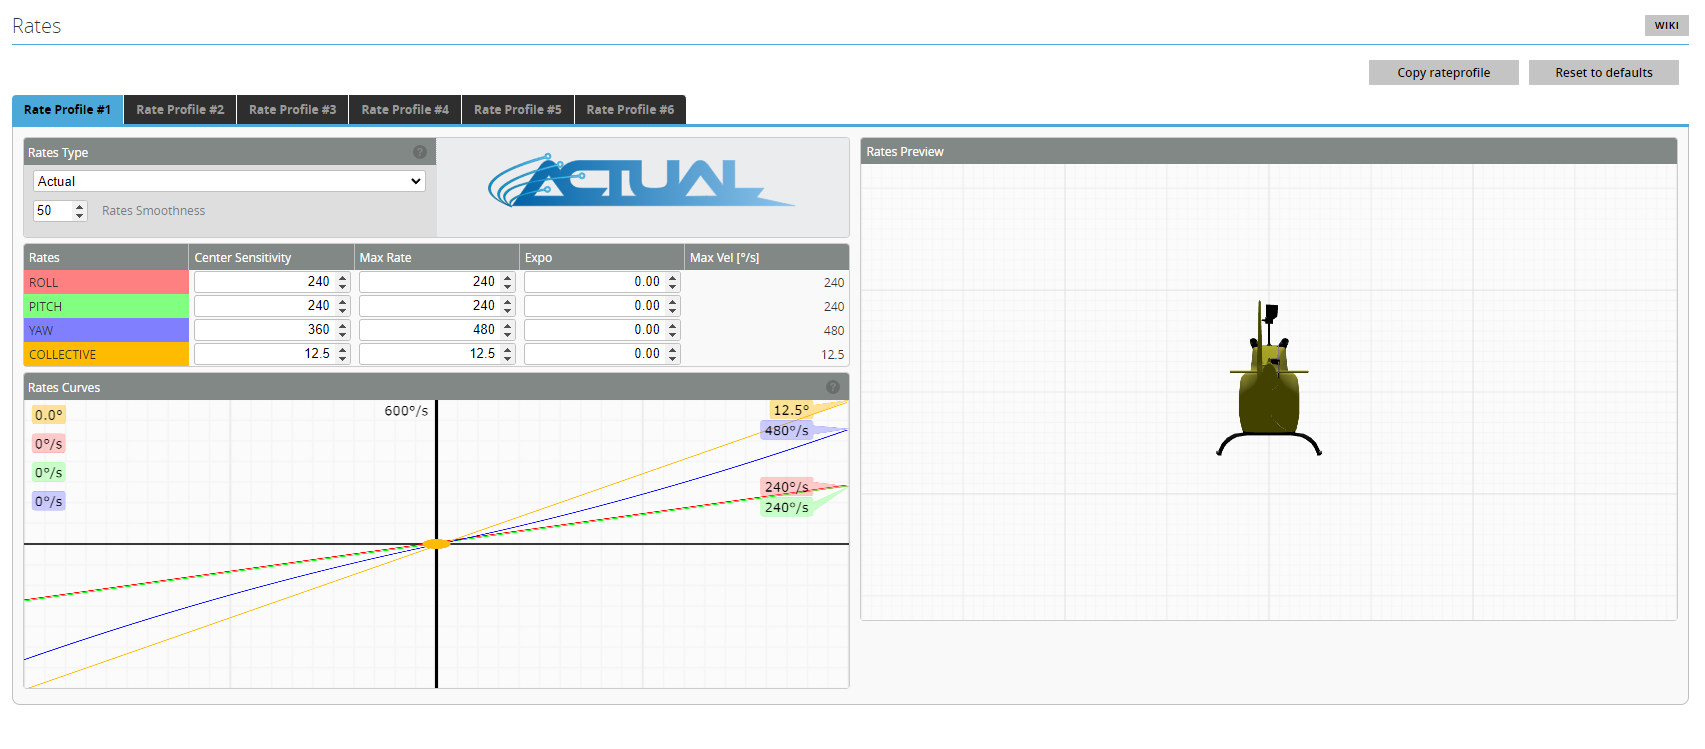
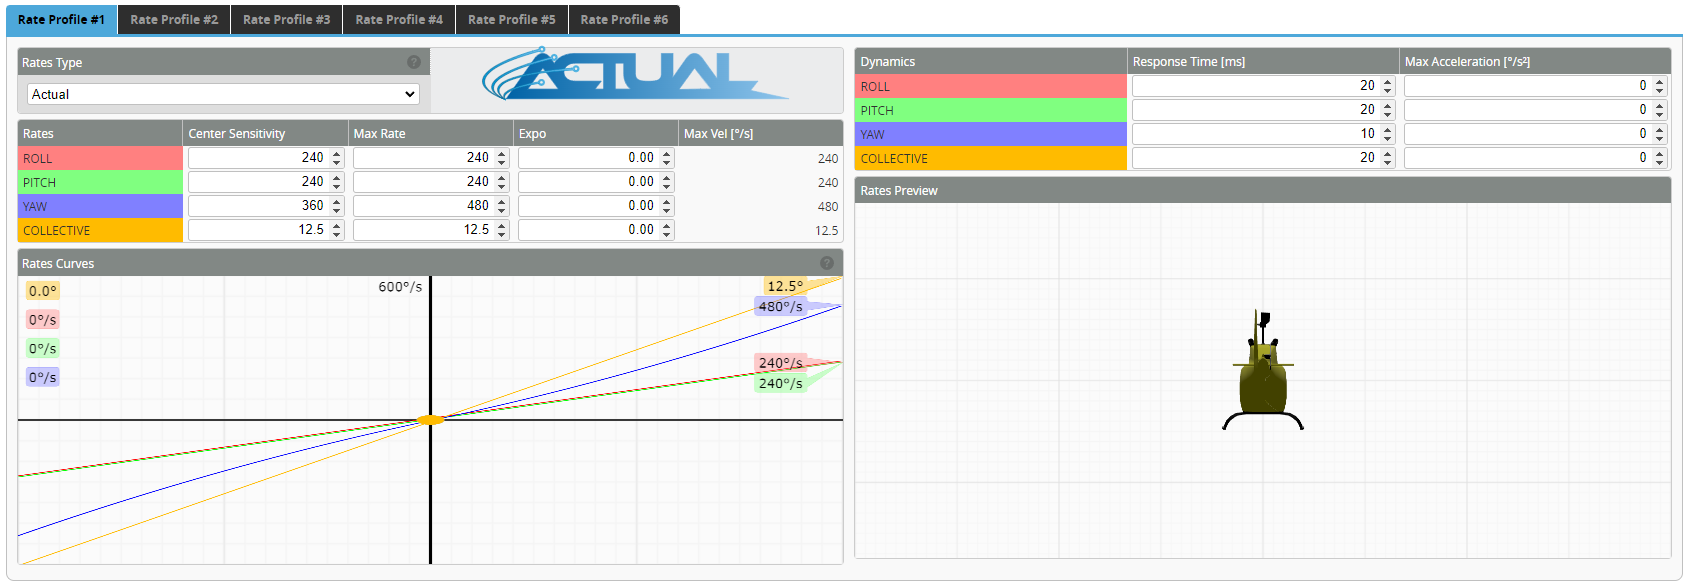
modified:   docs/Tutorial-Setup/Adjustments.md 	modified:   docs/Tutorial-Setup/Beepers.md 	modified:   docs/Tutorial-Setup/Blackbox.md 	new file:   docs/Tutorial-Setup/CLI.md 	modified:   docs/Tutorial-Setup/Configuration.md 	modified:   docs/Tutorial-Setup/Failsafe.md 	modified:   docs/Tutorial-Se

diff --git a/docusaurus.config.js b/docusaurus.config.js
@@ -145,7 +145,7 @@ const config = {
               },
               {
                 label: 'Setup',
-                to: '/docs/Tutorial-Setup/Configuration',
+                to: '/docs/Tutorial-Setup/Status',
               },
               {
                 label: 'Manufacturers',

diff --git a/docs/Tutorial-Setup/Status.md b/docs/Tutorial-Setup/Status.md
@@ -1,0 +1,65 @@
+---
+sidebar_position: 40
+---
+# Status
+
+A place for basic flight controller information. The status tab is the first tab you see when you connect to your flight controller. You can check the gyroscope live preview, view the arming prevention flags and other FC information.
+
+## Info
+
+Shows some basic data from the flight controller and model. This includes:
+
+* Craft Name
+* Firmware
+* Board
+
+![Status Tab](./img/status-info.png)
+
+## Arming
+
+![Status Tab](./img/status-arming.png)
+
+* **Enable Arming:** Use thr switch to enable arming while the configurator is connected.
+
+:::caution
+With the arming enabled, the motor can spoolup when the throttle is released.
+
+Remove blades for safety.
+:::
+
+* **Arming Disable Flags:** Shows all of the "errors" that prevent the flight controller from arming. This is useful to check if you're having issues arming.
+
+## Battery
+
+![Status Tab](./img/status-battery.png)
+
+* **Voltage** - Shows the current battery voltage if the settings for it are set correctly.
+* **Current** - Shows the current drawn from the battery if the settings for it are set correctly.
+* **Capacity** - Shows the consumed capacity of the battery in mAh.
+* **Charge Level** - Shows remaining battery capacity in percent.
+
+
+## Live Gyro Preview
+
+A live preview of the gyroscope data. This is useful to check if the gyroscope is aligned correctly, and if it isn't getting/giving noisy data.
+
+![Status Tab](./img/status-live-preview.png)
+
+* **Reset Z axis** - This button resets the heli heading to 0 degrees.
+
+:::info
+You can set the gyroscope alignment in the `Configuration` tab.
+:::
+
+## Instruments
+
+A graphic replica of real aircraft instruments.
+
+![Status Tab](./img/status-instruments.png)
+
+## Receiver
+
+The receiver output preview shows the current state of the receiver channels, both in channel value and graph forms, and how those affect the heli movement.
+
+![Status Tab](./img/status-receiver.png)
+

diff --git a/docs/Tutorial-Setup/Receiver.md b/docs/Tutorial-Setup/Receiver.md
@@ -1,5 +1,5 @@
 ---
-sidebar_position: 50
+sidebar_position: 70
 ---
 
 One of the first things you should do is to connect a receiver to the FC. Your FC has several UARTs, and each UART has a TX and an RX. A receiver needs to be connected to an RX and/or TX pad, depending on the type of receiver.
@@ -66,12 +66,13 @@ For **CRSF/ELRS** always set *ARM* switch to *CH5/AUX1* on the radio, also set *
 
 ![Receiver Tab](./img/receiver-settings.png)
 
-* Adjust **Stick Center** as required by your radio to achieve 0% when the _ROLL, PITCH, YAW_ sticks are centered. 
-* Adjust **Stick Maximum Travel** achieve 100% at the sticks limits.
-* Adjust **Throttle Channel value for 0% throttle** to achieve 0% on the channel bar.
-* Adjust **Throttle Channel value for 100% throttle** to achieve 100% on the channel bar.
+* **Stick Center** - adjust as required by your radio to achieve 0% when the _ROLL, PITCH, YAW_ sticks are centered. 
+* **Stick Maximum Travel** - adjust achieve 100% at the sticks limits.
+* **Throttle Channel value for arming** - channel value under which arming is allowed.
+* **Throttle Channel value for 0% throttle** - adjust to achieve 0% on the channel bar.
+* **Throttle Channel value for 100% throttle** - adjust to achieve 100% on the channel bar.
     * NOTE! Throttle hold must send a value than is lower than 0% level, for example you can set you radio to send 1000us at 0% throttle, and 975us at throttle hold.
-* Adjust **Cyclic Deadband** and **Yaw Deadband** to the smallest possible value that doesn't make your model drift in the *Rates Preview* window.
+* **Cyclic Deadband** and **Yaw Deadband** - adjust to the smallest possible value that doesn't make your model drift in the *Rates Preview* window.
 
 :::caution
 Calibrating Stability Mode

diff --git a/docs/Tutorial-Setup/Rates.md b/docs/Tutorial-Setup/Rates.md
@@ -65,9 +65,17 @@ Expo flattens the curve between center stick and full stick. To achieve a more l
 
 While Expo can be as high as 100, excessive Expo might cause decreased center stick sensitivity and make the heli’s response more unpredictable towards full stick (more jumpy).
 
-### Rates Smoothness
+## Dynamics
 
-During piroflips, one may feel that the cyclic has slight wobbles. Increasing `Rates Smoothness` would help with that given the PID loop is tuned well.
+![Rates](./img/rates-dynamics.png)
+
+* **Response Time** - corresponds the smoothness of the reaction to stick inputs, also called  time constant of the input filter.
+
+:::note
+High response times smooths out the input but too high could cause significant input delay.
+:::
+
+* **Max Acceleration** - is the input acceleration limiter. Zero represents off. Low value reduces the load on the machine and could be desired for scale flying, not useful for 3D normally.
 
 ## Copy Rate Profile
 

diff --git a/docs/Tutorial-Setup/Mixer.md b/docs/Tutorial-Setup/Mixer.md
@@ -1,5 +1,5 @@
 ---
-sidebar_position: 70
+sidebar_position: 120
 ---
 
 # Mixer
@@ -42,6 +42,10 @@ For helicopters with adjustable swash links this should remain at 0 and the link
 
 #### Cyclic and Collective calibration
 These settings are used to calibrate the mixer so that the blade angle matches the commanded angle for both the cyclic and collective. See the [calibration procedure](#calibrating-the-mixer) for details.
+
+#### Collective geometry correction
+
+Adjust until the collective positive and negative deflections are equal.
 
 #### Collective blade pitch limit
 

diff --git a/docs/Tutorial-Setup/Configuration.md b/docs/Tutorial-Setup/Configuration.md
@@ -1,5 +1,5 @@
 ---
-sidebar_position: 40
+sidebar_position: 60
 ---
 # Configuration
 
@@ -30,7 +30,7 @@ This section is used to enable or disable features.
 ![Configuration Tab](./img/config-features.png)
 
 :::tip
-Features such as the Serial Rx, GPS, ESC Telemetry must be selected in the [Serial ports](#serial-ports) section before selecting the Feature here. 
+Features such as the GPS must be selected in the [Serial ports](#serial-ports) section before selecting the Feature here. 
 :::
 
 ## Serial Ports

diff --git a/docs/Tutorial-Setup/Beepers.md b/docs/Tutorial-Setup/Beepers.md
@@ -1,10 +1,7 @@
 ---
-sidebar_position: 170
+sidebar_position: 190
 ---
 
 # Beepers
-Coming soon
-## Buzzer configuration
-Coming soon
-## ESC Beacon configuration
-Coming soon
+
+To Do

diff --git a/docs/Tutorial-Setup/Failsafe.md b/docs/Tutorial-Setup/Failsafe.md
@@ -1,9 +1,6 @@
 ---
-sidebar_position: 170
+sidebar_position: 80
 ---
 # Failsafe
 
-## Valid Pulse Range Settings
-Coming soon
-## Channel Fallback Settings
-Coming soon
+To Do

diff --git a/docs/Tutorial-Setup/Blackbox.md b/docs/Tutorial-Setup/Blackbox.md
@@ -1,5 +1,5 @@
 ---
-sidebar_position: 170
+sidebar_position: 220
 ---
 
 # Blackbox logging

diff --git a/docs/Tutorial-Setup/Rpm-Measurement.md b/docs/Tutorial-Setup/Rpm-Measurement.md
@@ -1,5 +1,5 @@
 ---
-sidebar_position: 85
+sidebar_position: 105
 ---
 
 # RPM Measurement

diff --git a/docs/Tutorial-Setup/Sensors.md b/docs/Tutorial-Setup/Sensors.md
@@ -1,5 +1,6 @@
 ---
-sidebar_position: 170
+sidebar_position: 210
 ---
 # Sensors
 
+To Do

diff --git a/docs/Tutorial-Setup/Motor-and-Esc.md b/docs/Tutorial-Setup/Motor-and-Esc.md
@@ -1,5 +1,5 @@
 ---
-sidebar_position: 80
+sidebar_position: 100
 ---
 
 # Motor and ESC
